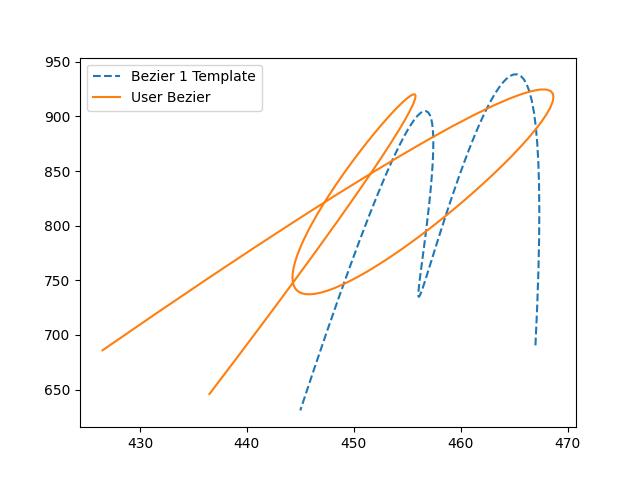
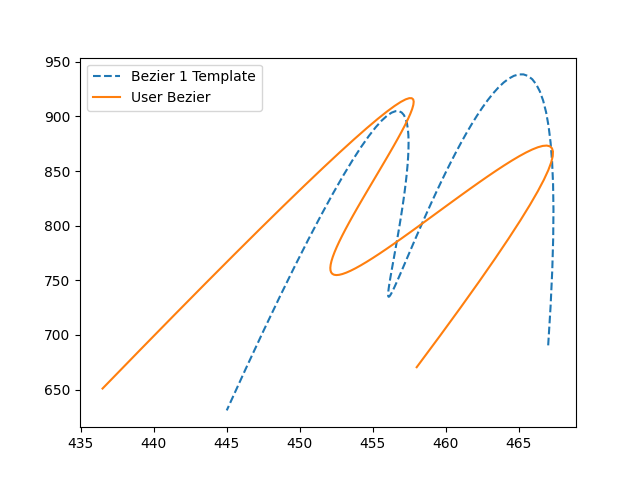
added plotting of high distance gesture for sign ene

diff --git a/DualSense/DualSense/TemplateLayer.swift b/DualSense/DualSense/TemplateLayer.swift
@@ -59,7 +59,7 @@ struct TemplateLayer: View {
     // Declares the function getTemplateFromBackend with parameters: sign and a completion closure that takes an array of CGPoints as input
     func getTemplateFromBackend(sign: String, completion: @escaping ([CGPoint]) -> Void) {
         // Defines the URL endpoint where we're making the request
-        let url = "http://192.168.1.77:5000/get-template" // Replace with your server's URL
+        let url = "http://146.169.152.132:5000/get-template" // Replace with your server's URL
 
         // Defines the parameters for the request as a dictionary with the sign variable
         let parameters: [String: Any] = ["sign": sign]

diff --git a/DualSense/DualSense/TouchDetection.swift b/DualSense/DualSense/TouchDetection.swift
@@ -122,7 +122,7 @@ class TouchRecognizer: UIGestureRecognizer {
     // Sends data to backend if flag isRecognising is set
     private func sendToBackend(jsonData: Data, sign: String) {
         // Creates a URL request with a specific URL string, including IP address --> may needs to be updated
-        var request = URLRequest(url: URL(string: "http://192.168.1.77:5000/receive_json")!)
+        var request = URLRequest(url: URL(string: "http://146.169.152.132:5000/receive_json")!)
         // Specifies the HTTP method for the request as POST
         request.httpMethod = "POST"
         // Sets HTTP header with information about sign (for backend to select recogniser)

diff --git a/Backend/sign_ñ/sign_ñ.py b/Backend/sign_ñ/sign_ñ.py
@@ -315,7 +315,27 @@ def is_sign_ñ_single_curve(timestamps: List[float], locations: List[List[float]
 
     print(f"distance_template: {distance_template}")
 
-    if distance_template > 2000.0:
+    # captures the very different sign, usually the first --> this is the random single few points whent the gesture
+    # terminates
+    if distance_template > 20000:
+        print("large distance print")
+        plt.figure()
+        # plots the template
+        plt.plot(bezier_curve_single_template[:, 0], bezier_curve_single_template[:, 1], label='Bezier 1 Template',
+                 linestyle='dashed')
+        # plots user curves
+        plt.plot(user_curve_b[:, 0], user_curve_b[:, 1], label='User Bezier')
+
+        # adds a legend
+        plt.legend()
+        # saves the plot
+        current_dir = os.path.dirname(os.path.abspath(__file__))
+        filename = os.path.join(current_dir, 'output_figure_single_high_distance.png')
+        plt.savefig(filename)
+        # closes the figure to free up memory
+        plt.close()
+
+    if distance_template > 3000.0:
         return False
 
     return True

diff --git a/Backend/extraction.py b/Backend/extraction.py
@@ -69,10 +69,11 @@ def read_and_store_locations_to_json(directory: str, filename: str, output_filen
         json.dump(locations, json_file)
 
 
-# Call the function
-if __name__ == '__main__':
+# calls the function
+# if __name__ == '__main__':
     # extracts numpy template (Bézier curves) into json file for frontend
     # numpy_to_json('sign_j', 'bezier_curve_template.npy')
 
     # extracts touch location coordinates into json files
-    read_and_store_locations_to_json('.', 'data.json', 'ñ.json')
+    # make sure to update the filename before use to not override other files
+    # read_and_store_locations_to_json('.', 'data.json', 'ñ.json')
